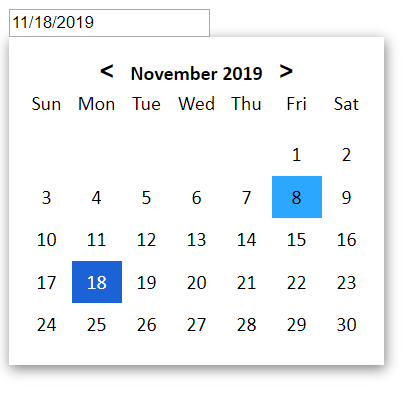
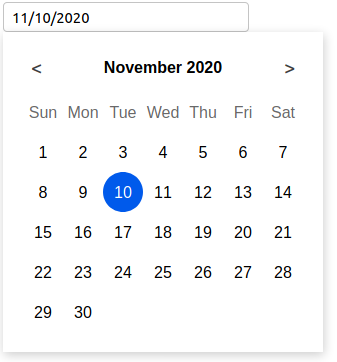
Styling Improvements (#5)
* change interface to web component

* edit readme

* update interface docs in readme

* add margins for change month buttons

* reduce shadow darkness and increase main padding

* improve day grid mouseover styling

* turn month header to flexbox

* change webpack from dev to prod build

* manage height of headers

* remove unnecessary files

* change screenshot

* readme changes

diff --git a/src/generate/month-header.js b/src/generate/month-header.js
@@ -2,29 +2,38 @@ import setup_day_grid from './day-grid';
 import { months } from '../utils/names';
 
 function create_change_month_button(selected_time, text, offset, month_year_text, day_grid, input) {
-    const button = document.createElement("button");
-    Object.assign(button.style, {
+    const change_month_button = document.createElement("button");
+    Object.assign(change_month_button.style, {
         backgroundColor: "transparent",
         border: "none",
         fontSize: "20px",
-        fontWeight: "bold",
+        transform: "scale(1,1)",
+        height: "30px",
+        lineHeight: "30px",
     });
-    button.addEventListener("click", () => {
+
+    change_month_button.addEventListener("mouseover", () => {
+        change_month_button.style.cursor = "pointer";
+    })
+
+    change_month_button.addEventListener("click", () => {
         selected_time.set_time(new Date(selected_time.get_time().getFullYear(), selected_time.get_time().getMonth()+offset));
         setup_day_grid(day_grid, selected_time, input);
         month_year_text.textContent = months[selected_time.get_time().getMonth()] + " " + selected_time.get_time().getFullYear();
     })
-    button.textContent = text;
-    return button;
+    change_month_button.textContent = text;
+    return change_month_button;
 }
 
 export default function setup_month_header(month_header, day_grid, selected_time, input) {
     const month_year_text = document.createElement("div");
     Object.assign(month_year_text.style, {
-        width: "120px",
+        width: "150px",
         display: "inline-block",
         fontWeight: "bold",
         marginBottom: "5px",
+        height: "30px",
+        lineHeight: "30px",
     });
     month_year_text.textContent = months[selected_time.get_time().getMonth()] + " " + selected_time.get_time().getFullYear();
     const backwardButton = create_change_month_button(selected_time, "<", -1, month_year_text, day_grid, input);

diff --git a/src/generate/day-grid.js b/src/generate/day-grid.js
@@ -26,8 +26,9 @@ export default function setup_day_grid(day_grid, selected_time, input) {
         Object.assign(day_cell.style, {
             textAlign: "center",
             width: "40px",
-            height: "34px",
-            lineHeight: "34px",
+            height: "40px",
+            lineHeight: "40px",
+            borderRadius: "50%",
         });
         day_cell.addEventListener("mouseenter", () => {
             if (clicked_cell !== day_cell) day_cell.style.backgroundColor = "#2ba7ff";
@@ -42,7 +43,7 @@ export default function setup_day_grid(day_grid, selected_time, input) {
                     color: "",
                 });
             Object.assign(day_cell.style, {
-                backgroundColor: "#1a62d6",
+                backgroundColor: "#005aeb",
                 color: "#FFF",
             });
             clicked_cell = day_cell;

diff --git a/src/generate/skeleton.js b/src/generate/skeleton.js
@@ -7,6 +7,10 @@ export default function setup_skeleton(parent) {
     Object.assign(month_header.style, {
         width: "280px",
         textAlign: "center",
+        marginBottom: "10px",
+        display: "flex",
+        justifyContent: "space-between",
+        height: "30px",
     })
     Object.assign(day_grid.style, {
         width: "280px",
@@ -21,9 +25,9 @@ export default function setup_skeleton(parent) {
     Object.assign(container.style, {
         width: "280px",
         display: "none",
-        padding: "15px 10px",
+        padding: "20px",
         fontFamily: `Calibri, "Trebuchet MS", Candara, Segoe, "Segoe UI", Optima, Arial, sans-serif`,
-        boxShadow: "1px 3px 10px rgba(0, 0, 0, 0.5)",
+        boxShadow: "1px 3px 10px rgba(0, 0, 0, 0.2)",
         position: "absolute",
     })
 

diff --git a/src/generate/week-header.js b/src/generate/week-header.js
@@ -7,7 +7,9 @@ export default function setup_week_header(week_header) {
         Object.assign(weekday.style, {
             textAlign: "center",
             width: "40px",
-            height: "34px",
+            height: "40px",
+            color: "#696969",
+            lineHeight: "40px",
         });
         week_header.appendChild(weekday);
     }

diff --git a/webpack.config.js b/webpack.config.js
@@ -2,7 +2,7 @@ const path = require('path');
 
 module.exports = {
     entry: './src/index.js',
-    mode: 'development',
+    mode: 'production',
     output: {
         filename: 'index.js',
         path: path.join(__dirname, 'lib'),

diff --git a/README.md b/README.md
@@ -1,13 +1,13 @@
 # Carbox Date-Picker
-A tiny zero-dependency and framework-agnostic date-picker web component made with vanilla javascript and CSS.
+A tiny zero-dependency and framework-agnostic date picker that is incredibly easy to use!
 ![screenshot](screenshot.png)
 
 ## Features
 
 - carbox-picker is a **Web Component**, which means you can simply import the JS bundle and use the tag `<carbox-picker></carbox-picker>` and you're all set!
-- **Zero Dependencies**
-- **Extremely Lightweight**: The webpack bundle is only 4kb even before zipping
-- **Frontend Framework Agnostic**
+- **Zero Dependencies**: This was completely written with vanilla JS without any frameworks or dependencies!
+- **Extremely Lightweight**: The webpack bundle is only 4kb even before zipping.
+- **Frontend Framework Agnostic**: This is not made for a specific UI framework. In fact, it can be used without a framework at all!
 - Can be interfaced just like a regular `<input>` which allows easy integration with forms, refs, etc.
 
 ## Getting Started
@@ -37,4 +37,3 @@ To use carbox date picker, simply use the `<carbox-picker>` tag in your HTML.
 ## Future Work
 - Configurability of styling
 - Configurability of the date-picker's output
-- Improve default styling
